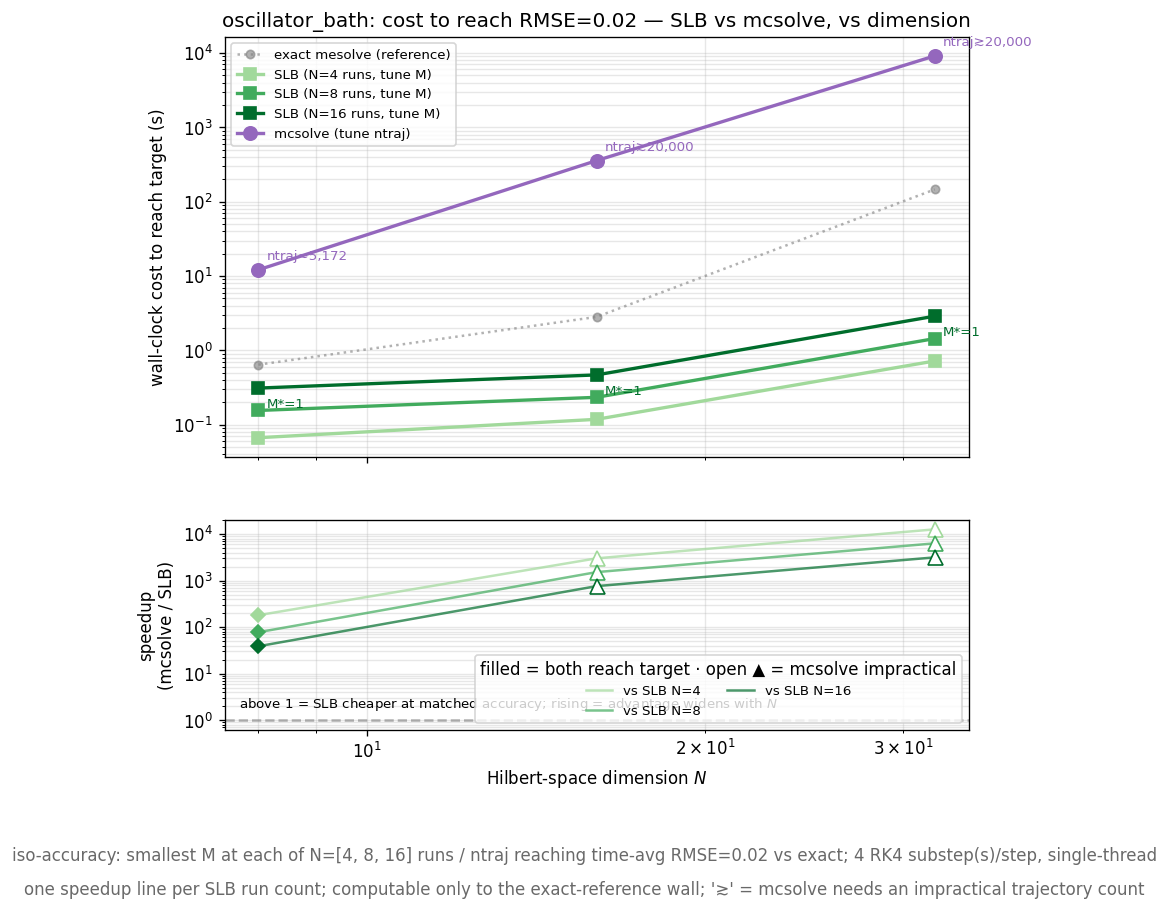
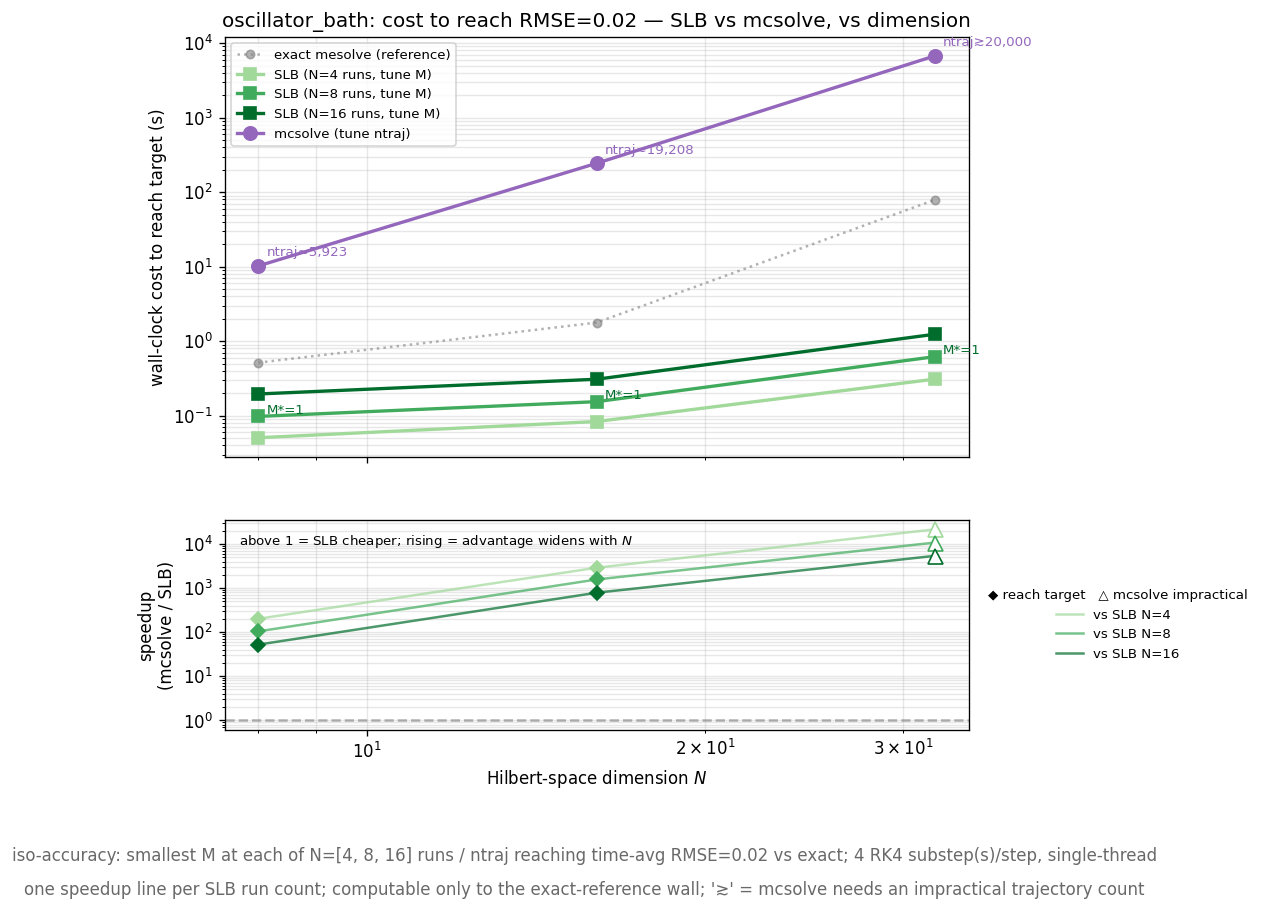
benchmarks: refine iso-cost benchmark results

diff --git a/benchmarks/benchmark_isocost_vs_dim.py b/benchmarks/benchmark_isocost_vs_dim.py
@@ -262,12 +262,13 @@ def figure(name, out):
     axr.set_xscale("log")
     axr.set_ylabel("speedup\n(mcsolve / SLB)")
     axr.set_xlabel(r"Hilbert-space dimension $N$")
-    axr.legend(loc="lower right", fontsize=8, ncol=2,
-               title="filled = both reach target · open ▲ = mcsolve impractical")
+    axr.legend(loc="center left", bbox_to_anchor=(1.01, 0.5), fontsize=8,
+               title="◆ reach target   △ mcsolve impractical",
+               title_fontsize=8, frameon=False)
     axr.grid(True, which="both", alpha=0.3)
-    axr.text(0.02, 0.08,
-             "above 1 = SLB cheaper at matched accuracy; rising = advantage widens with $N$",
-             transform=axr.transAxes, fontsize=8, va="bottom")
+    axr.text(0.02, 0.94,
+             "above 1 = SLB cheaper; rising = advantage widens with $N$",
+             transform=axr.transAxes, fontsize=8, va="top")
 
     add_settings_footer(
         fig,

diff --git a/benchmarks/BENCHMARKS.md b/benchmarks/BENCHMARKS.md
@@ -488,7 +488,11 @@ blows up with $N$.
 smallest bundle size $M^\ast$ — the first on a geometric grid $M = 1, 2, 4,
 \ldots$ whose 16-run time-averaged RMSE reaches a fixed target (here
 $\text{RMSE}=0.02$, measured against the exact solve) — and plots the cost of *that*
-solve. The required $M^\ast$ grows with $N$ (annotated in the bottom panel —
+solve. **The two panels line up vertically:** the $M^\ast$ annotated in the bottom
+panel at each dimension is exactly the bundle size whose wall-clock cost sits
+directly above it on the iso-accuracy curve — so a vertical read at any $N$ gives,
+for that system, both the accuracy floor and the price of holding it. The required
+$M^\ast$ grows with $N$ (annotated in the bottom panel —
 roughly $M^\ast\propto N$ on the chain), so this curve is steeper than fixed-$M$:
 holding accuracy costs about one extra power of $N$. But it still sits far below
 the exact solver, so SLB's advantage survives the honest accounting. It is
